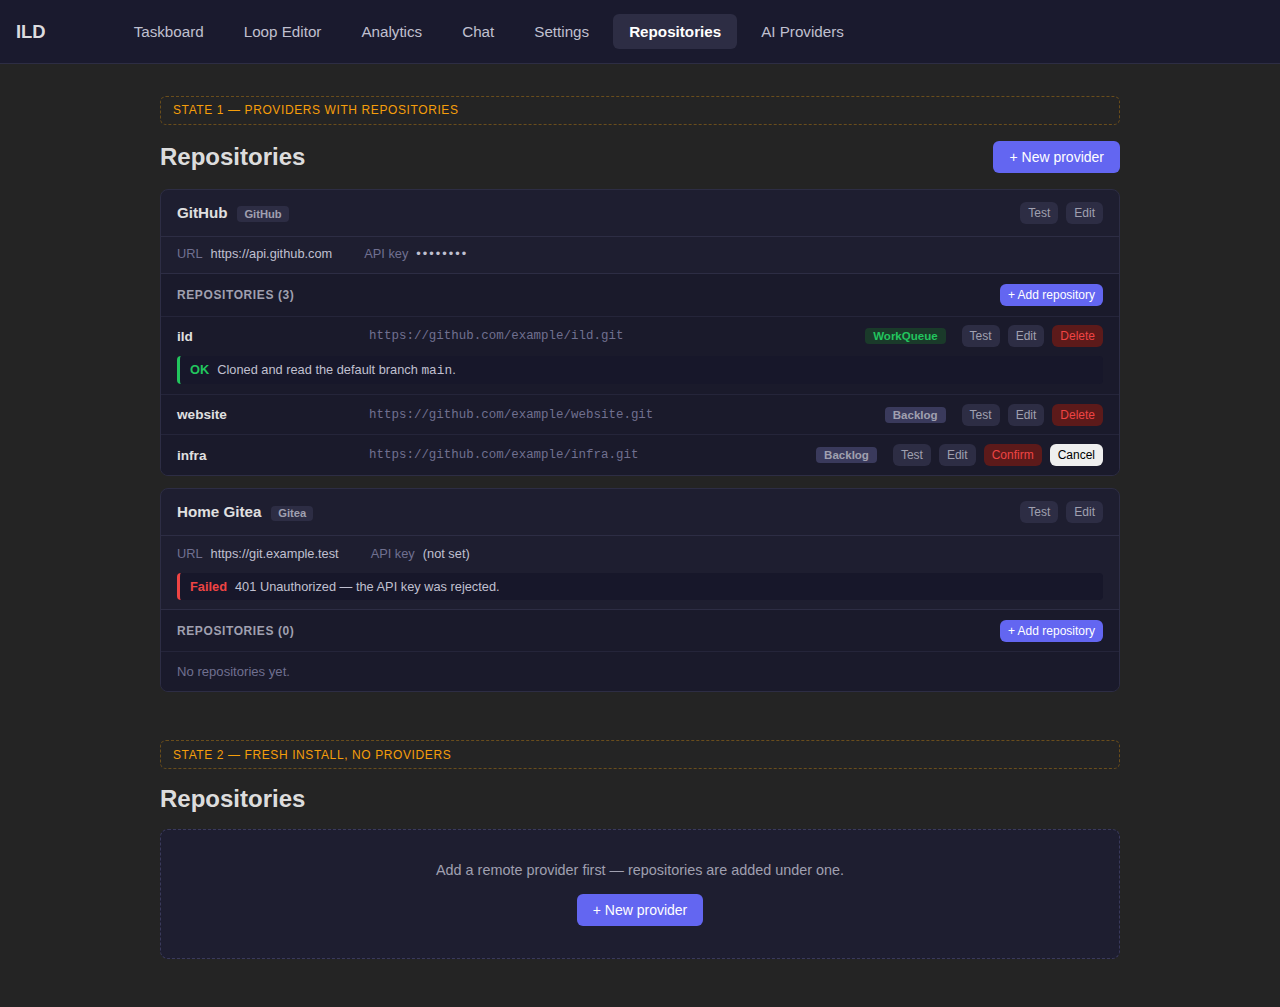
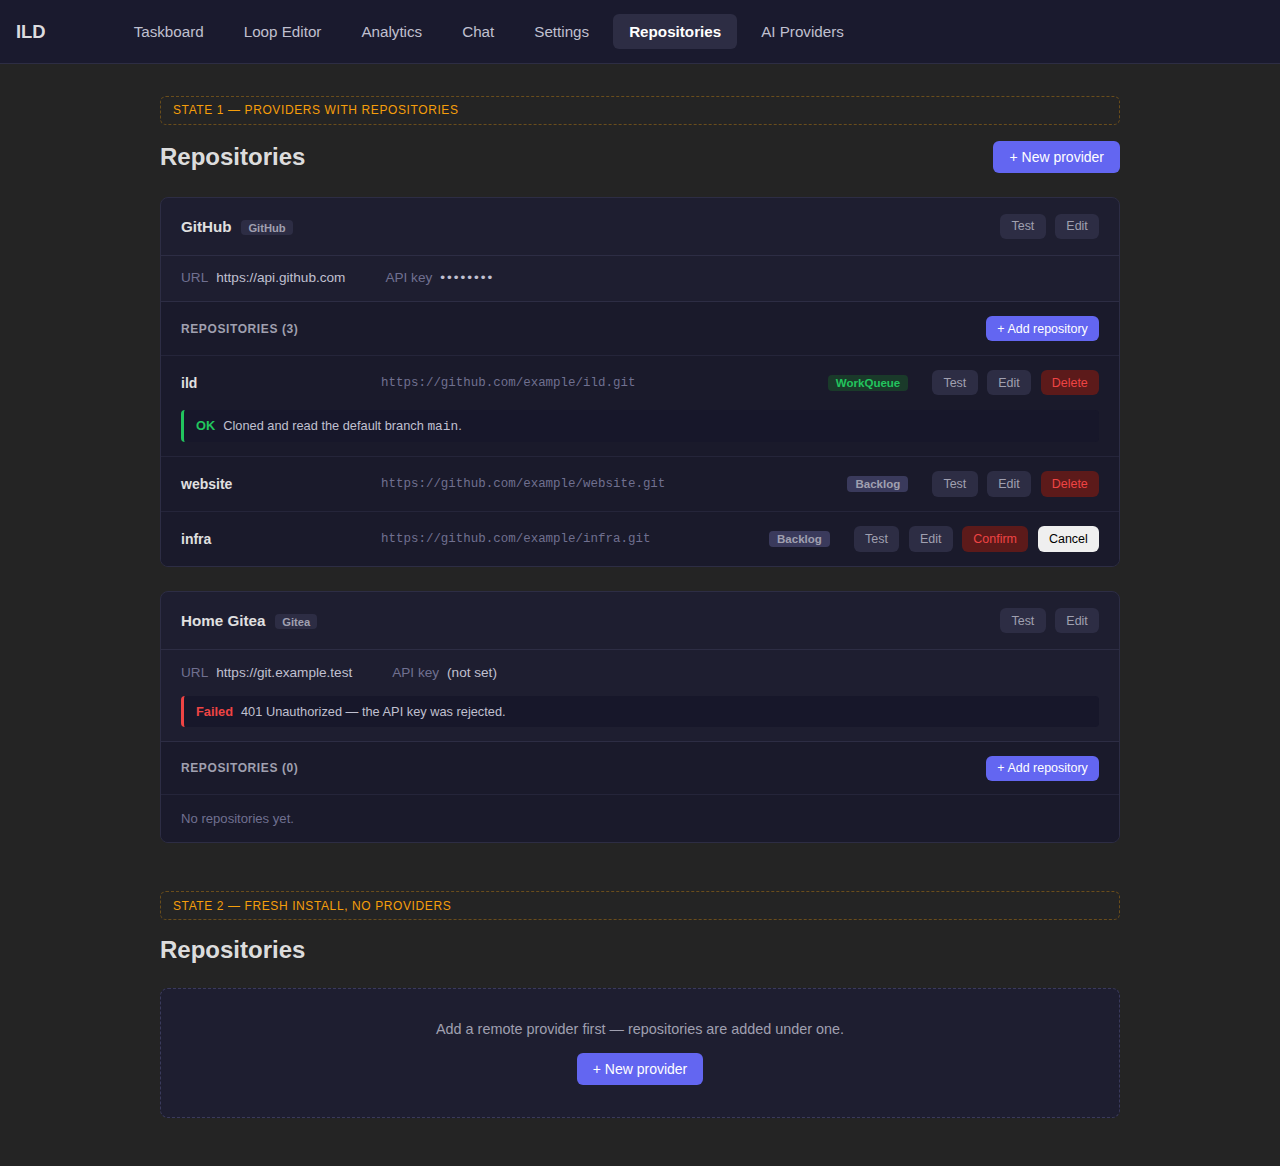
Give the Repositories mockup more breathing room

diff --git a/frontend/public/mockups/repositories-combined.html b/frontend/public/mockups/repositories-combined.html
@@ -29,33 +29,33 @@
         color: #f59e0b; border: 1px dashed #f59e0b55; border-radius: 0.375rem;
       }
       .page { max-width: 960px; margin: 1rem auto 3rem; }
-      .header { display: flex; justify-content: space-between; align-items: center; margin-bottom: 1rem; }
+      .header { display: flex; justify-content: space-between; align-items: center; margin-bottom: 1.5rem; }
       .page-title { font-size: 1.5rem; font-weight: 600; margin: 0; }
-      .list { display: flex; flex-direction: column; gap: 0.75rem; }
+      .list { display: flex; flex-direction: column; gap: 1.5rem; }
 
       .card { background: #1e1e30; border: 1px solid #2d2d44; border-radius: 0.5rem; overflow: hidden; }
       .card-header {
         display: flex; justify-content: space-between; align-items: center;
-        padding: 0.75rem 1rem; border-bottom: 1px solid #2d2d44;
+        padding: 1rem 1.25rem; border-bottom: 1px solid #2d2d44;
       }
       .name { font-size: 0.95rem; font-weight: 600; color: #e0e0e0; display: flex; gap: 0.6rem; align-items: baseline; }
       .type-chip { font-size: 0.7rem; font-weight: 600; color: #a0a0b0; background: #2d2d44; padding: 0.1rem 0.45rem; border-radius: 0.25rem; }
-      .actions { display: flex; gap: 0.5rem; align-items: center; }
-      .provider-facts { display: flex; gap: 2rem; padding: 0.6rem 1rem 0.25rem; font-size: 0.8rem; }
+      .actions { display: flex; gap: 0.6rem; align-items: center; }
+      .provider-facts { display: flex; gap: 2.5rem; padding: 0.9rem 1.25rem 0.25rem; font-size: 0.85rem; }
       .label { color: #707090; margin-right: 0.5rem; }
       .value { color: #c0c0d0; }
       .masked { letter-spacing: 0.125rem; }
-      .provider-facts { padding-bottom: 0.75rem; }
+      .provider-facts { padding-bottom: 1rem; }
 
       .repos { border-top: 1px solid #2d2d44; background: #1a1a2b; }
       .repos-head {
         display: flex; justify-content: space-between; align-items: center;
-        padding: 0.6rem 1rem; font-size: 0.75rem; font-weight: 600; color: #a0a0b0;
+        padding: 0.85rem 1.25rem; font-size: 0.75rem; font-weight: 600; color: #a0a0b0;
         text-transform: uppercase; letter-spacing: 0.05em;
       }
       .repo-row {
-        display: grid; grid-template-columns: 11rem 1fr auto auto; gap: 1rem; align-items: center;
-        padding: 0.55rem 1rem; border-top: 1px solid #25253a; font-size: 0.85rem;
+        display: grid; grid-template-columns: 11rem 1fr auto auto; gap: 1.5rem; align-items: center;
+        padding: 0.9rem 1.25rem; border-top: 1px solid #25253a; font-size: 0.875rem;
       }
       .repo-name { color: #e0e0e0; font-weight: 600; }
       .repo-url { color: #707090; font-family: ui-monospace, "Liberation Mono", monospace; font-size: 0.78rem; overflow: hidden; text-overflow: ellipsis; white-space: nowrap; }
@@ -63,13 +63,13 @@
       .status-Backlog { background: #3a3a5c; color: #a0a0b0; }
       .status-WorkQueue { background: #1a3a2a; color: #22c55e; }
       .result {
-        margin: 0 1rem 0.6rem; border-left: 3px solid #22c55e; padding: 0.375rem 0.625rem;
+        margin: 0 1.25rem 0.9rem; border-left: 3px solid #22c55e; padding: 0.5rem 0.75rem;
         font-size: 0.8rem; color: #c0c0d0; background: #17172a; border-radius: 0.25rem;
       }
       .result.failed { border-left-color: #ef4444; }
       .result b { color: #22c55e; margin-right: 0.5rem; }
       .result.failed b { color: #ef4444; }
-      .empty { padding: 0.75rem 1rem; border-top: 1px solid #25253a; font-size: 0.82rem; color: #707090; }
+      .empty { padding: 1rem 1.25rem; border-top: 1px solid #25253a; font-size: 0.82rem; color: #707090; }
       .empty-page {
         background: #1e1e30; border: 1px dashed #3a3a5c; border-radius: 0.5rem;
         padding: 2rem; text-align: center; color: #a0a0b0; font-size: 0.9rem;
@@ -81,7 +81,7 @@
       .btn-primary { background: #6366f1; color: #fff; }
       .btn-secondary { background: #2d2d44; color: #a0a0b0; }
       .btn-danger { background: #5c1a1a; color: #ef4444; }
-      .btn-small { padding: 0.25rem 0.5rem; font-size: 0.75rem; }
+      .btn-small { padding: 0.35rem 0.7rem; font-size: 0.78rem; }
     </style>
   </head>
   <body>
